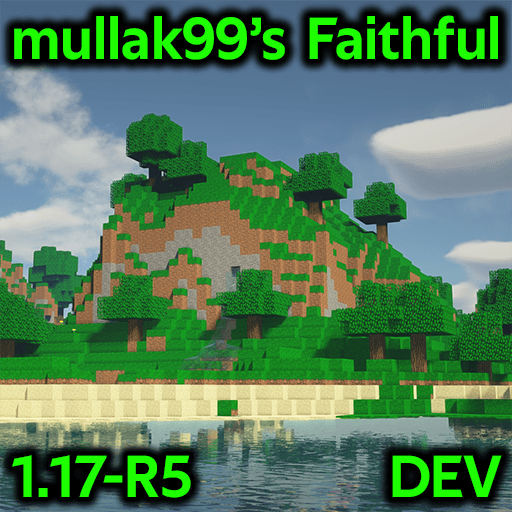
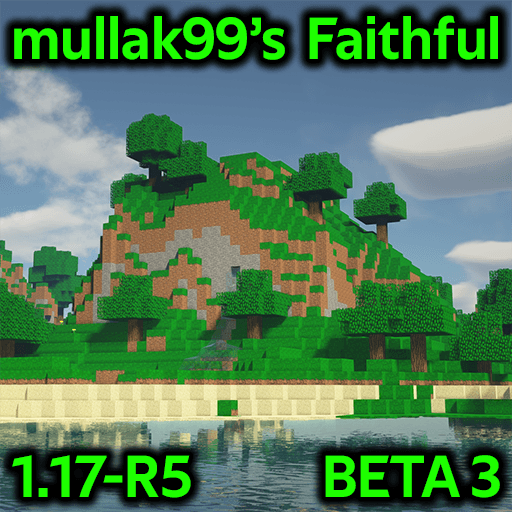
MC1.17-R5_BETA3
- Replaced Dolphin texture (EM32D)
- Replaced Bundle Filled texture (EM32D)

Changed region(s): [[0.5938, 0.8438, 1.0, 1.0]]

diff --git a/ChangeLog.md b/ChangeLog.md
@@ -37,6 +37,7 @@ All notable changes to mullak99's Faithful will be documented in this file.
 - Replaced Llama textures (EM32D)
 - Replaced Conduit textures (EM32D)
 - Replaced Pufferfish entity texture (EM32D)
+- Replaced Dolphin texture (EM32D)
 - Changed Sugar Cane model to match new texture
 - Changed Deepslate Ore textures (removed 'glow')
 - Changed End Crystal (entity) texture to match new bedrock

diff --git a/README.md b/README.md
@@ -1,6 +1,6 @@
 # mullak99's Faithful 32x
 
-**Current Branch Version:** _MC1.17-R5_DEV210825-1_  
+**Current Branch Version:** _MC1.17-R5_BETA3_  
 
 ## Official Links
 
